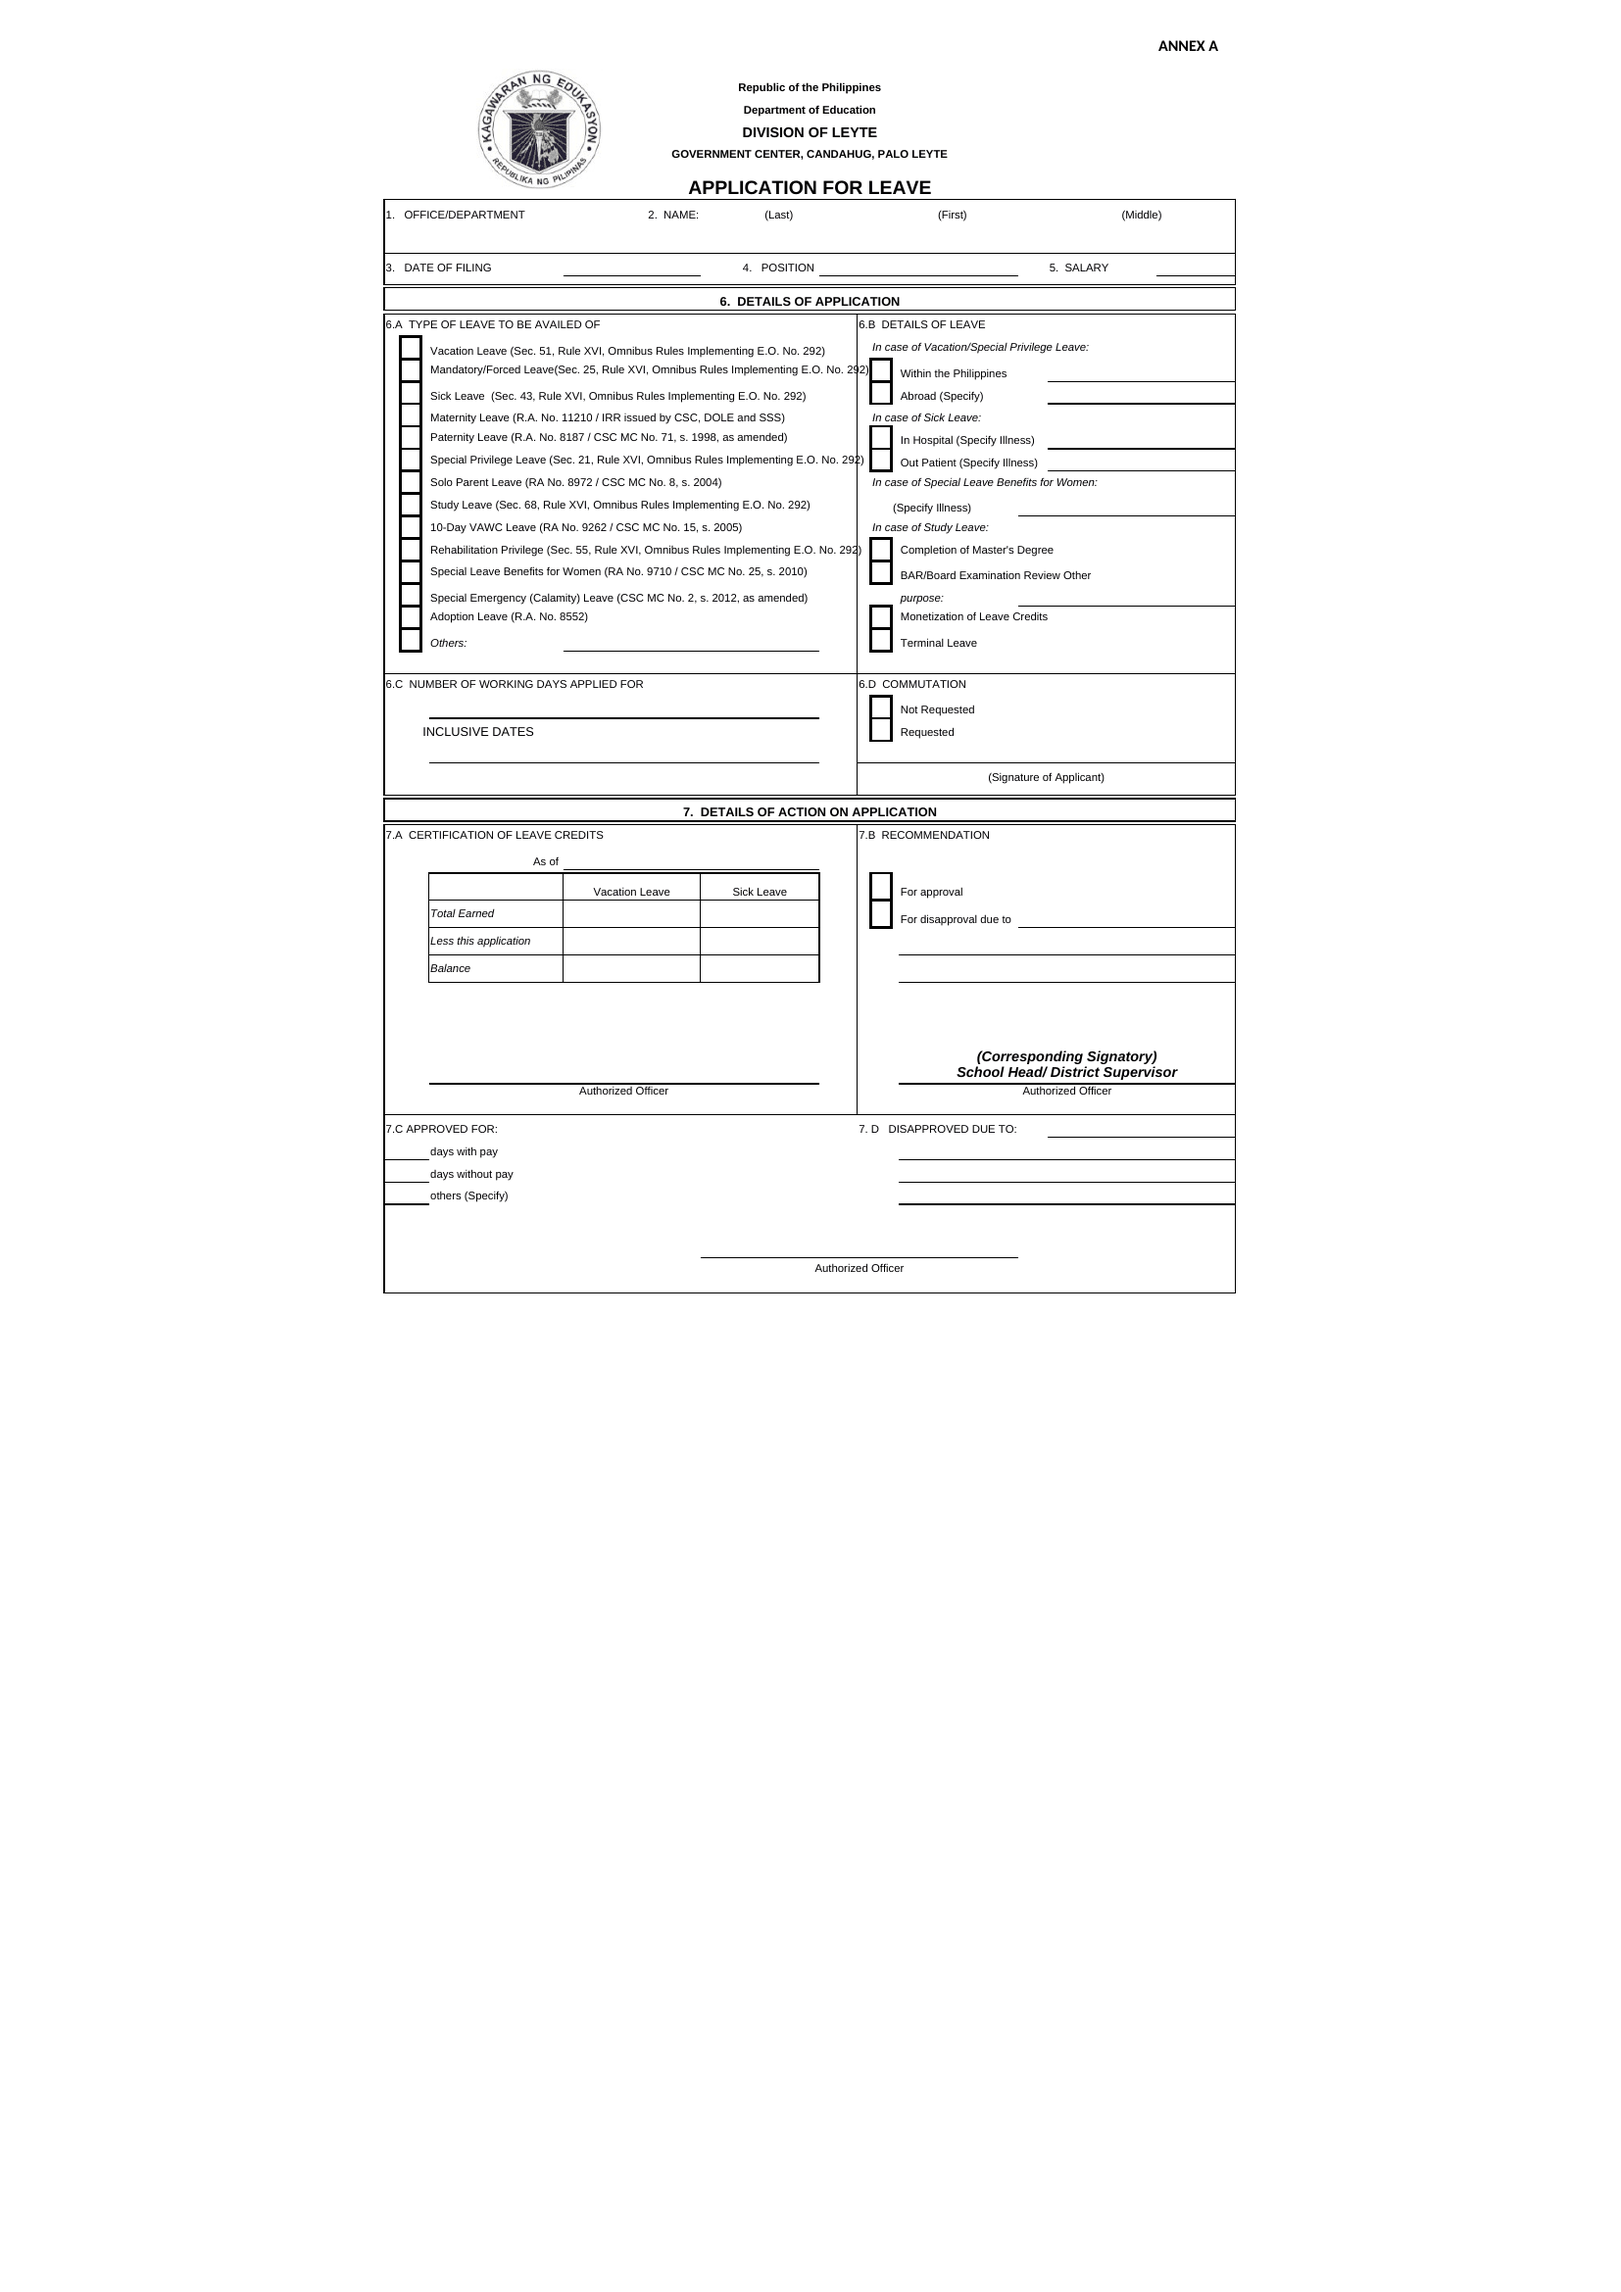
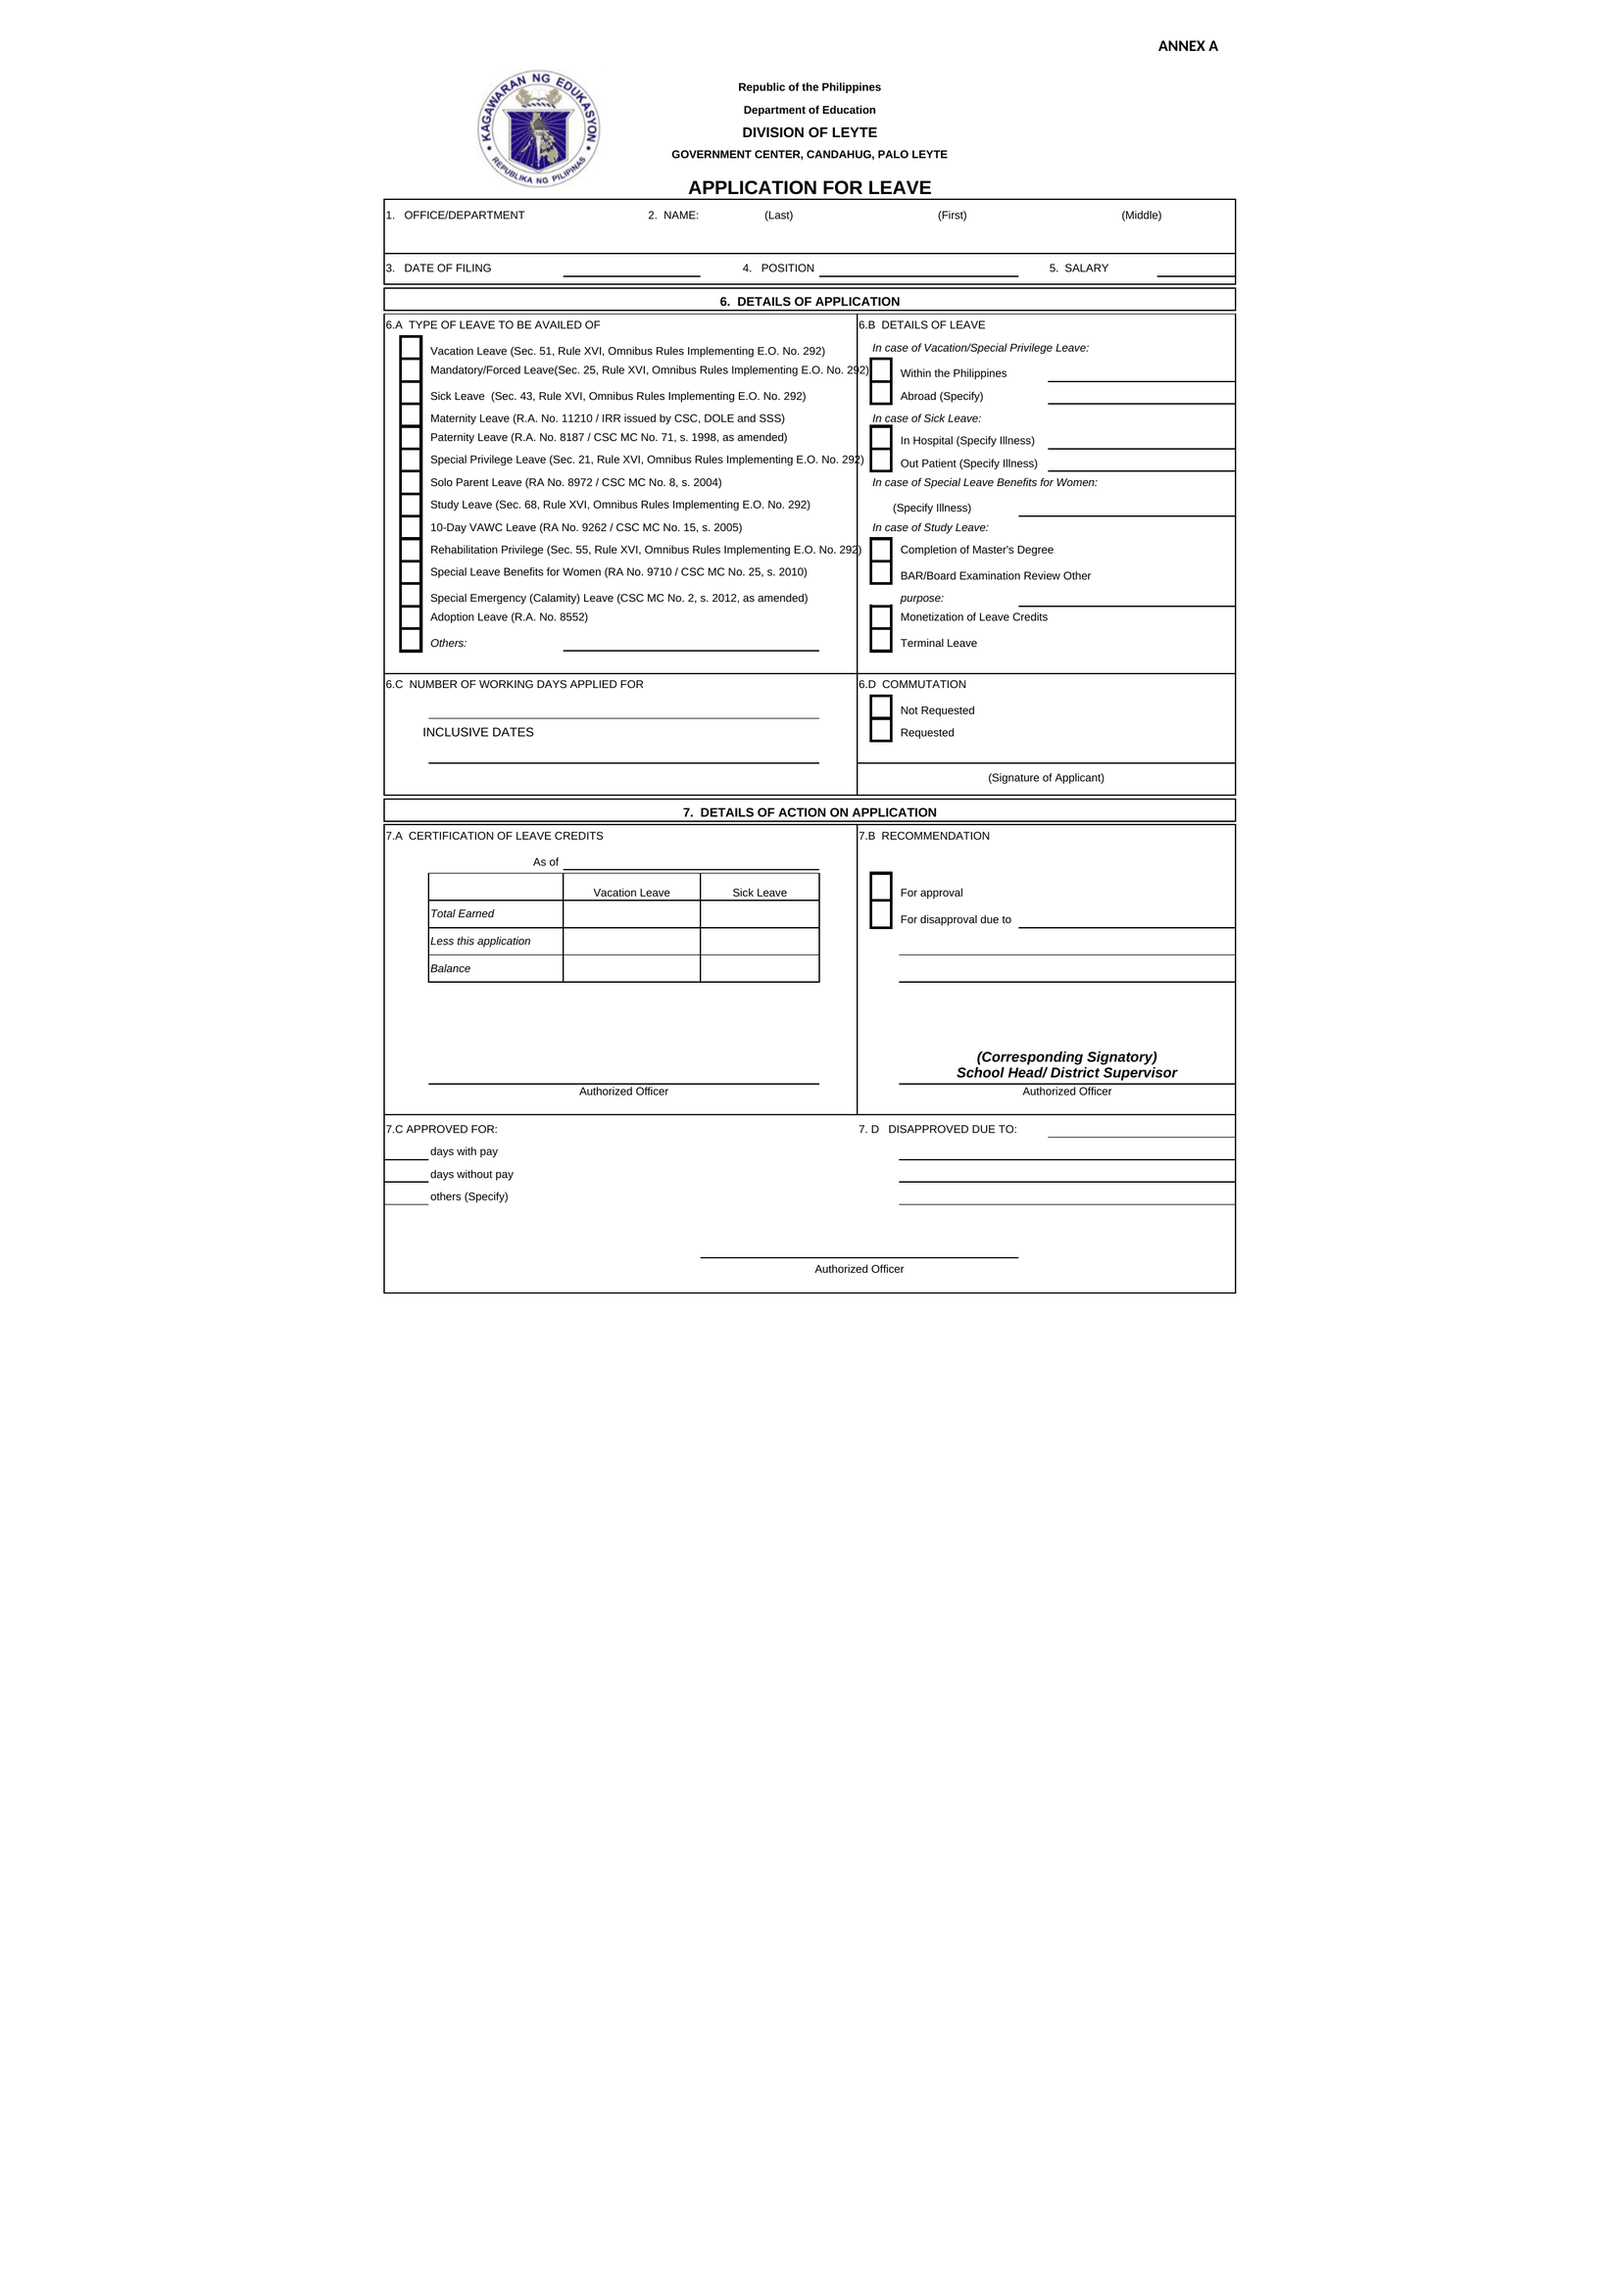
fix leave TA finsihing

diff --git a/src/app/shared/layout/shell.component.ts b/src/app/shared/layout/shell.component.ts
@@ -49,7 +49,7 @@ export class ShellComponent implements OnInit {
       { label: 'Working Directory', tab: 'working' },
       { label: 'Travel Authority', tab: 'travel', show: r !== Role.SCHOOL },
       { label: 'Service Credits', tab: 'credits', show: r === Role.DISTRICT_SUPERVISOR || r === Role.TEACHER || r === Role.DS_SECRETARY || r === Role.NON_TEACHING || r === Role.SCHOOL_HEAD || r === Role.ADMIN_OFFICER || r === Role.PUBLISHER },
-      { label: 'Pending for Signature', tab: 'pending', show: r === Role.SCHOOL_HEAD || r === Role.DISTRICT_SUPERVISOR || r === Role.DS_SECRETARY || r === Role.TEACHER || r === Role.NON_TEACHING || r === Role.ADMIN_OFFICER || r === Role.PUBLISHER },
+      { label: 'Pending for Signature', tab: 'pending', show: r === Role.SCHOOL_HEAD || r === Role.DISTRICT_SUPERVISOR || r === Role.DS_SECRETARY || r === Role.TEACHER },
       { label: 'TA Number', tab: 'number', show: r === Role.DS_SECRETARY },
       { label: 'File Storage', tab: 'storage' },
     ].filter((c) => c.show !== false);
@@ -77,7 +77,7 @@ export class ShellComponent implements OnInit {
 
   private loadPending() {
     const r = this.role;
-    if (r === Role.SCHOOL || r === Role.ADMINISTRATOR || !r) { this.pendingCount.set(0); return; }
+    if (r !== Role.SCHOOL_HEAD && r !== Role.DISTRICT_SUPERVISOR && r !== Role.DS_SECRETARY && r !== Role.TEACHER) { this.pendingCount.set(0); return; }
     // Travel Authorities and leave (Form 6) waiting for this person's signature
     const ta = firstValueFrom(this.ta.inbox()).then((rows) => rows.filter((x) => !!x.myTurn).length).catch(() => 0);
     const lv = firstValueFrom(this.leaveApi.list()).then((rows) => rows.filter((x) => !!x.myTurn).length).catch(() => 0);

diff --git a/src/app/shared/leave/leave-form.ts b/src/app/shared/leave/leave-form.ts
@@ -92,7 +92,8 @@ export async function buildForm6(v: LeaveView): Promise<HTMLElement> {
   const rec = v.recommendation;
   if (rec?.decision === 'approval') tick(page, 'j45');
   if (rec?.decision === 'disapproval') { tick(page, 'j46'); put(page, f['recReason'], esc(rec.reason), { size: 7, align: 'left', valign: 'top', wrap: true }); }
-  if (v.printed.signatoryTitle === 'CID Chief') put(page, f['sigName'], esc(v.printed.signatory), { size: 9, bold: true });
+  // the corresponding signatory's name is filled in automatically (School Head for teachers, staff and the AO; the District Supervisor for a School Head)
+  put(page, f['sigName'], esc(v.printed.signatory.toUpperCase()), { size: 9, bold: true });
   // 7.C / 7.D
   if (v.status === 'approved') put(page, f['daysPay'], esc(num(d.days)), { size: 9, bold: true });
   if (v.status === 'disapproved') put(page, f['disReason'], esc(v.note ?? ''), { size: 8, align: 'left', valign: 'top', wrap: true });

diff --git a/src/app/features/my-files/my-files.component.ts b/src/app/features/my-files/my-files.component.ts
@@ -81,7 +81,7 @@ export class MyFilesComponent implements OnInit {
       const t = m.get('tab');
       const r = this.auth.currentUser()?.role;
       if (t === 'working' || t === 'storage' || (t === 'travel' && this.canTravel)) this.tab = t;
-      else if (t === 'pending' && ['school_head', 'district_supervisor', 'ds_secretary', 'teacher', 'non_teaching', 'admin_officer', 'publisher'].includes(r ?? '')) this.tab = t;
+      else if (t === 'pending' && ['school_head', 'district_supervisor', 'ds_secretary', 'teacher'].includes(r ?? '')) this.tab = t;
       else if (t === 'number' && r === 'ds_secretary') this.tab = t;
       else if ((t === 'credits' || t === 'leave') && ['teacher', 'non_teaching', 'ds_secretary', 'school_head', 'admin_officer', 'publisher', 'district_supervisor'].includes(r ?? '')) this.tab = 'credits';
     });
